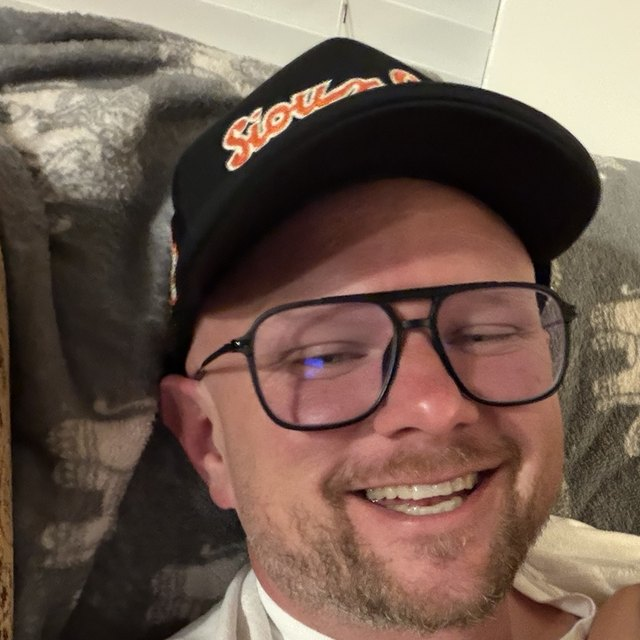
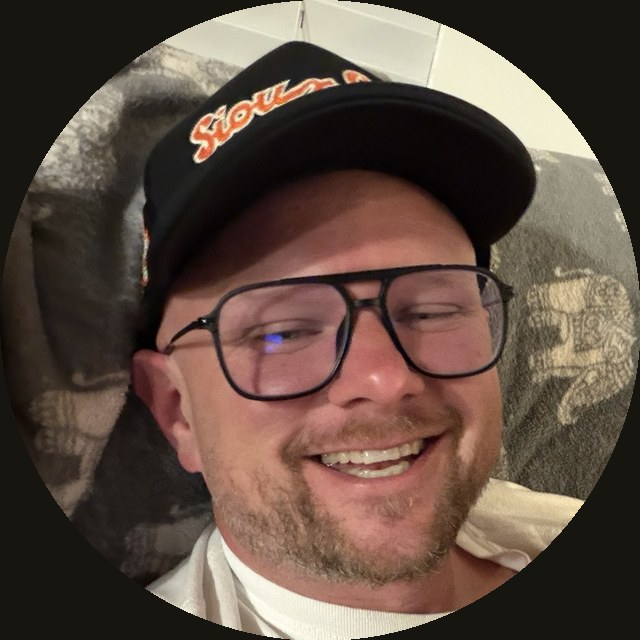
About: recenter photo, stronger bio, add St. Charles recovery center and mentoring

diff --git a/about.html b/about.html
@@ -49,11 +49,13 @@
     <div class="about-text">
       <h2 id="h-about">Timothy &ldquo;Moose&rdquo; Kavanagh</h2>
       <p class="role">Clinical Director</p>
-      <p>Moose has been sober for 14 years and has worked in recovery since 2013. He has counseled people through addiction, run sober living homes for a decade, and built Golden Key to be the program he would want for his own family.</p>
+      <p class="bio-lead">14 years sober. Thousands of men mentored. He has lived the road he now leads people down.</p>
+      <p>Moose has worked in recovery since 2013. He started an addiction recovery community center in St. Charles, ran sober living homes for a decade, and has counseled and mentored thousands of men through addiction. He built Golden Key to be the program he would want for his own family.</p>
       <ul class="creds">
         <li>Certified Reciprocal Alcohol and Drug Counselor (CRADC)</li>
         <li>Credentialed clinical supervisor</li>
-        <li>14 years in recovery</li>
+        <li>Founder of a recovery community center in St. Charles</li>
+        <li>Mentor to thousands of men in recovery</li>
       </ul>
     </div>
   </div>

diff --git a/css/style.css b/css/style.css
@@ -184,3 +184,8 @@ input:focus,select:focus,textarea:focus{outline:none;border-color:var(--gold);bo
 .hero[data-video="on"] h1,.hero[data-video="on"] .lead,.hero[data-video="on"] .label{text-shadow:0 2px 18px rgba(0,0,0,.75)}
 .hero-note{display:none}
 .hero[data-video="on"] .hero-note{display:block;position:absolute;right:16px;bottom:12px;margin:0;font-size:.75rem;letter-spacing:.04em;color:var(--muted);background:rgba(15,14,11,.6);padding:3px 9px;border-radius:999px}
+
+/* About: stronger bio */
+.bio-lead{font-family:var(--display);font-weight:600;font-size:clamp(1.3rem,2.6vw,1.6rem);line-height:1.25;color:var(--fg) !important;margin-bottom:14px}
+.about-text p:not(.label):not(.role):not(.bio-lead){color:var(--fg);font-size:1.125rem}
+.creds li{font-weight:600}
